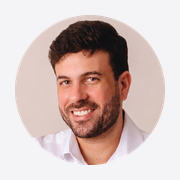
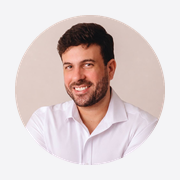
Foto do ícone com menos zoom; script da agenda: renomeia para André med
Claude-Session: https://claude.ai/code/session_01UK9Jk17PTvgUfnoRknFzqS

Changed region(s): [[0.1389, 0.1111, 0.8333, 0.9167], [0.8611, 0.6667, 0.8889, 0.6944]]

diff --git a/ambulatorios/ref/prenatal-exame-obstetrico/index.html b/ambulatorios/ref/prenatal-exame-obstetrico/index.html
@@ -6,8 +6,8 @@
 <meta name="robots" content="noindex,nofollow,noarchive">
 <meta name="theme-color" content="#f5f5f7" media="(prefers-color-scheme: light)">
 <title>Pré-natal e exame obstétrico</title>
-<link rel="icon" href="../../../assets/icone.png?v=am1" type="image/png" sizes="192x192">
-<link rel="apple-touch-icon" href="../../../assets/apple-touch-icon.png?v=am1">
+<link rel="icon" href="../../../assets/icone.png?v=am2" type="image/png" sizes="192x192">
+<link rel="apple-touch-icon" href="../../../assets/apple-touch-icon.png?v=am2">
 <meta name="apple-mobile-web-app-title" content="André med">
 <script>try{if(localStorage.getItem('bancos-tema')==='escuro')document.documentElement.dataset.theme='dark'}catch(e){}</script>
 <link rel="stylesheet" href="../../../assets/porta.css?v=am1">

diff --git a/ncs4/ref-tutoria-31/index.html b/ncs4/ref-tutoria-31/index.html
@@ -6,8 +6,8 @@
 <meta name="robots" content="noindex,nofollow,noarchive">
 <meta name="theme-color" content="#f5f5f7" media="(prefers-color-scheme: light)">
 <title>Tutoria SP 3.1 · Referencial</title>
-<link rel="icon" href="../../assets/icone.png?v=am1" type="image/png" sizes="192x192">
-<link rel="apple-touch-icon" href="../../assets/apple-touch-icon.png?v=am1">
+<link rel="icon" href="../../assets/icone.png?v=am2" type="image/png" sizes="192x192">
+<link rel="apple-touch-icon" href="../../assets/apple-touch-icon.png?v=am2">
 <meta name="apple-mobile-web-app-title" content="André med">
 <script>try{if(localStorage.getItem('bancos-tema')==='escuro')document.documentElement.dataset.theme='dark'}catch(e){}</script>
 <link rel="stylesheet" href="../../assets/porta.css?v=am1">

diff --git a/ncs4/ref-tbl-31/index.html b/ncs4/ref-tbl-31/index.html
@@ -6,8 +6,8 @@
 <meta name="robots" content="noindex,nofollow,noarchive">
 <meta name="theme-color" content="#f5f5f7" media="(prefers-color-scheme: light)">
 <title>TBL SP 3.1 · Referencial</title>
-<link rel="icon" href="../../assets/icone.png?v=am1" type="image/png" sizes="192x192">
-<link rel="apple-touch-icon" href="../../assets/apple-touch-icon.png?v=am1">
+<link rel="icon" href="../../assets/icone.png?v=am2" type="image/png" sizes="192x192">
+<link rel="apple-touch-icon" href="../../assets/apple-touch-icon.png?v=am2">
 <meta name="apple-mobile-web-app-title" content="André med">
 <script>try{if(localStorage.getItem('bancos-tema')==='escuro')document.documentElement.dataset.theme='dark'}catch(e){}</script>
 <link rel="stylesheet" href="../../assets/porta.css?v=am1">

diff --git a/prescricoes/index.html b/prescricoes/index.html
@@ -6,8 +6,8 @@
 <meta name="robots" content="noindex,nofollow,noarchive">
 <meta name="theme-color" content="#f5f5f7" media="(prefers-color-scheme: light)">
 <title>Prescrições no PS</title>
-<link rel="icon" href="../assets/icone.png?v=am1" type="image/png" sizes="192x192">
-<link rel="apple-touch-icon" href="../assets/apple-touch-icon.png?v=am1">
+<link rel="icon" href="../assets/icone.png?v=am2" type="image/png" sizes="192x192">
+<link rel="apple-touch-icon" href="../assets/apple-touch-icon.png?v=am2">
 <meta name="apple-mobile-web-app-title" content="André med">
 <script>try{if(localStorage.getItem('bancos-tema')==='escuro')document.documentElement.dataset.theme='dark'}catch(e){}</script>
 <link rel="stylesheet" href="../assets/porta.css?v=am1">

diff --git a/questoes/index.html b/questoes/index.html
@@ -6,8 +6,8 @@
 <meta name="robots" content="noindex,nofollow,noarchive">
 <meta name="theme-color" content="#f5f5f7" media="(prefers-color-scheme: light)">
 <title>Banco de questões</title>
-<link rel="icon" href="../assets/icone.png?v=am1" type="image/png" sizes="192x192">
-<link rel="apple-touch-icon" href="../assets/apple-touch-icon.png?v=am1">
+<link rel="icon" href="../assets/icone.png?v=am2" type="image/png" sizes="192x192">
+<link rel="apple-touch-icon" href="../assets/apple-touch-icon.png?v=am2">
 <meta name="apple-mobile-web-app-title" content="André med">
 <script>try{if(localStorage.getItem('bancos-tema')==='escuro')document.documentElement.dataset.theme='dark'}catch(e){}</script>
 <link rel="stylesheet" href="../assets/porta.css?v=am1">

diff --git a/ambulatorios/index.html b/ambulatorios/index.html
@@ -6,8 +6,8 @@
 <meta name="robots" content="noindex,nofollow,noarchive">
 <meta name="theme-color" content="#f5f5f7" media="(prefers-color-scheme: light)">
 <title>Ambulatórios</title>
-<link rel="icon" href="../assets/icone.png?v=am1" type="image/png" sizes="192x192">
-<link rel="apple-touch-icon" href="../assets/apple-touch-icon.png?v=am1">
+<link rel="icon" href="../assets/icone.png?v=am2" type="image/png" sizes="192x192">
+<link rel="apple-touch-icon" href="../assets/apple-touch-icon.png?v=am2">
 <meta name="apple-mobile-web-app-title" content="André med">
 <script>try{if(localStorage.getItem('bancos-tema')==='escuro')document.documentElement.dataset.theme='dark'}catch(e){}</script>
 <link rel="stylesheet" href="../assets/porta.css?v=am1">

diff --git a/calendario/index.html b/calendario/index.html
@@ -6,8 +6,8 @@
 <meta name="robots" content="noindex,nofollow,noarchive">
 <meta name="theme-color" content="#f5f5f7" media="(prefers-color-scheme: light)">
 <title>Calendário</title>
-<link rel="icon" href="../assets/icone.png?v=am1" type="image/png" sizes="192x192">
-<link rel="apple-touch-icon" href="../assets/apple-touch-icon.png?v=am1">
+<link rel="icon" href="../assets/icone.png?v=am2" type="image/png" sizes="192x192">
+<link rel="apple-touch-icon" href="../assets/apple-touch-icon.png?v=am2">
 <meta name="apple-mobile-web-app-title" content="André med">
 <script>try{if(localStorage.getItem('bancos-tema')==='escuro')document.documentElement.dataset.theme='dark'}catch(e){}</script>
 <link rel="stylesheet" href="../assets/porta.css?v=am1">

diff --git a/index.html b/index.html
@@ -6,8 +6,8 @@
 <meta name="robots" content="noindex,nofollow,noarchive">
 <meta name="theme-color" content="#f5f5f7" media="(prefers-color-scheme: light)">
 <title>André med</title>
-<link rel="icon" href="./assets/icone.png?v=am1" type="image/png" sizes="192x192">
-<link rel="apple-touch-icon" href="./assets/apple-touch-icon.png?v=am1">
+<link rel="icon" href="./assets/icone.png?v=am2" type="image/png" sizes="192x192">
+<link rel="apple-touch-icon" href="./assets/apple-touch-icon.png?v=am2">
 <meta name="apple-mobile-web-app-title" content="André med">
 <script>try{if(localStorage.getItem('bancos-tema')==='escuro')document.documentElement.dataset.theme='dark'}catch(e){}</script>
 <link rel="stylesheet" href="./assets/porta.css?v=am1">

diff --git a/ncs4/index.html b/ncs4/index.html
@@ -6,8 +6,8 @@
 <meta name="robots" content="noindex,nofollow,noarchive">
 <meta name="theme-color" content="#f5f5f7" media="(prefers-color-scheme: light)">
 <title>NCS4</title>
-<link rel="icon" href="../assets/icone.png?v=am1" type="image/png" sizes="192x192">
-<link rel="apple-touch-icon" href="../assets/apple-touch-icon.png?v=am1">
+<link rel="icon" href="../assets/icone.png?v=am2" type="image/png" sizes="192x192">
+<link rel="apple-touch-icon" href="../assets/apple-touch-icon.png?v=am2">
 <meta name="apple-mobile-web-app-title" content="André med">
 <script>try{if(localStorage.getItem('bancos-tema')==='escuro')document.documentElement.dataset.theme='dark'}catch(e){}</script>
 <link rel="stylesheet" href="../assets/porta.css?v=am1">
